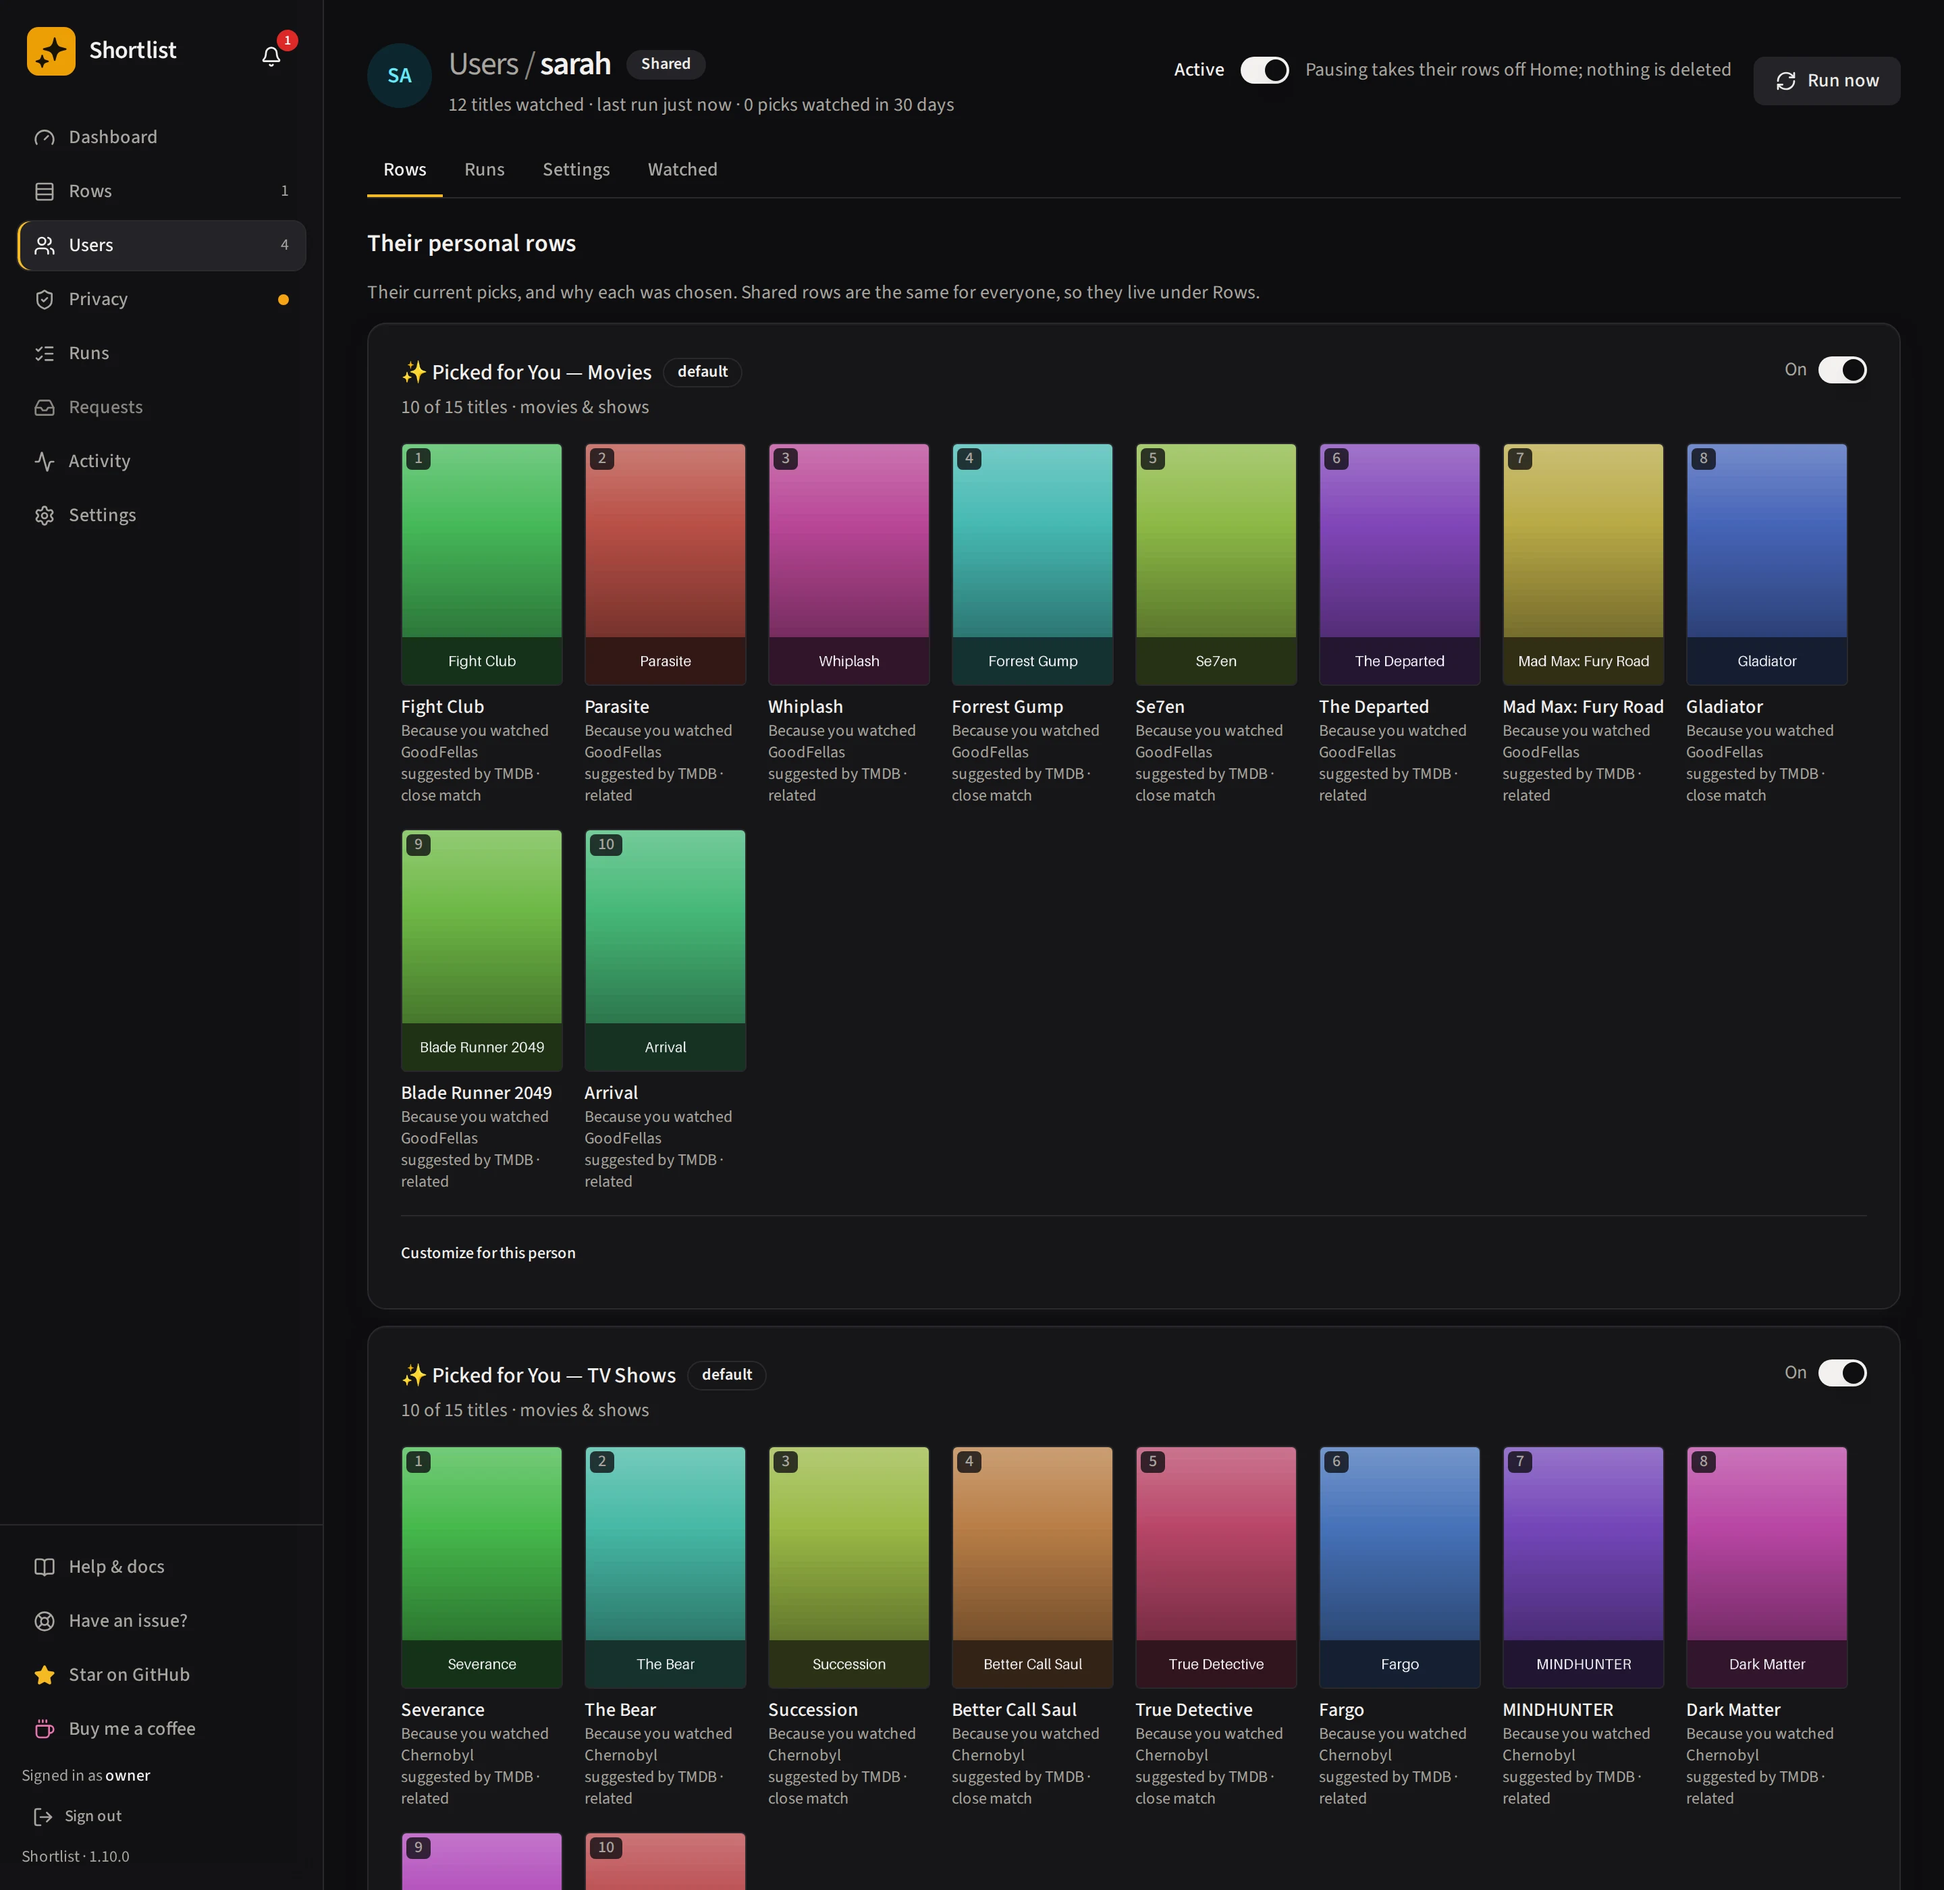
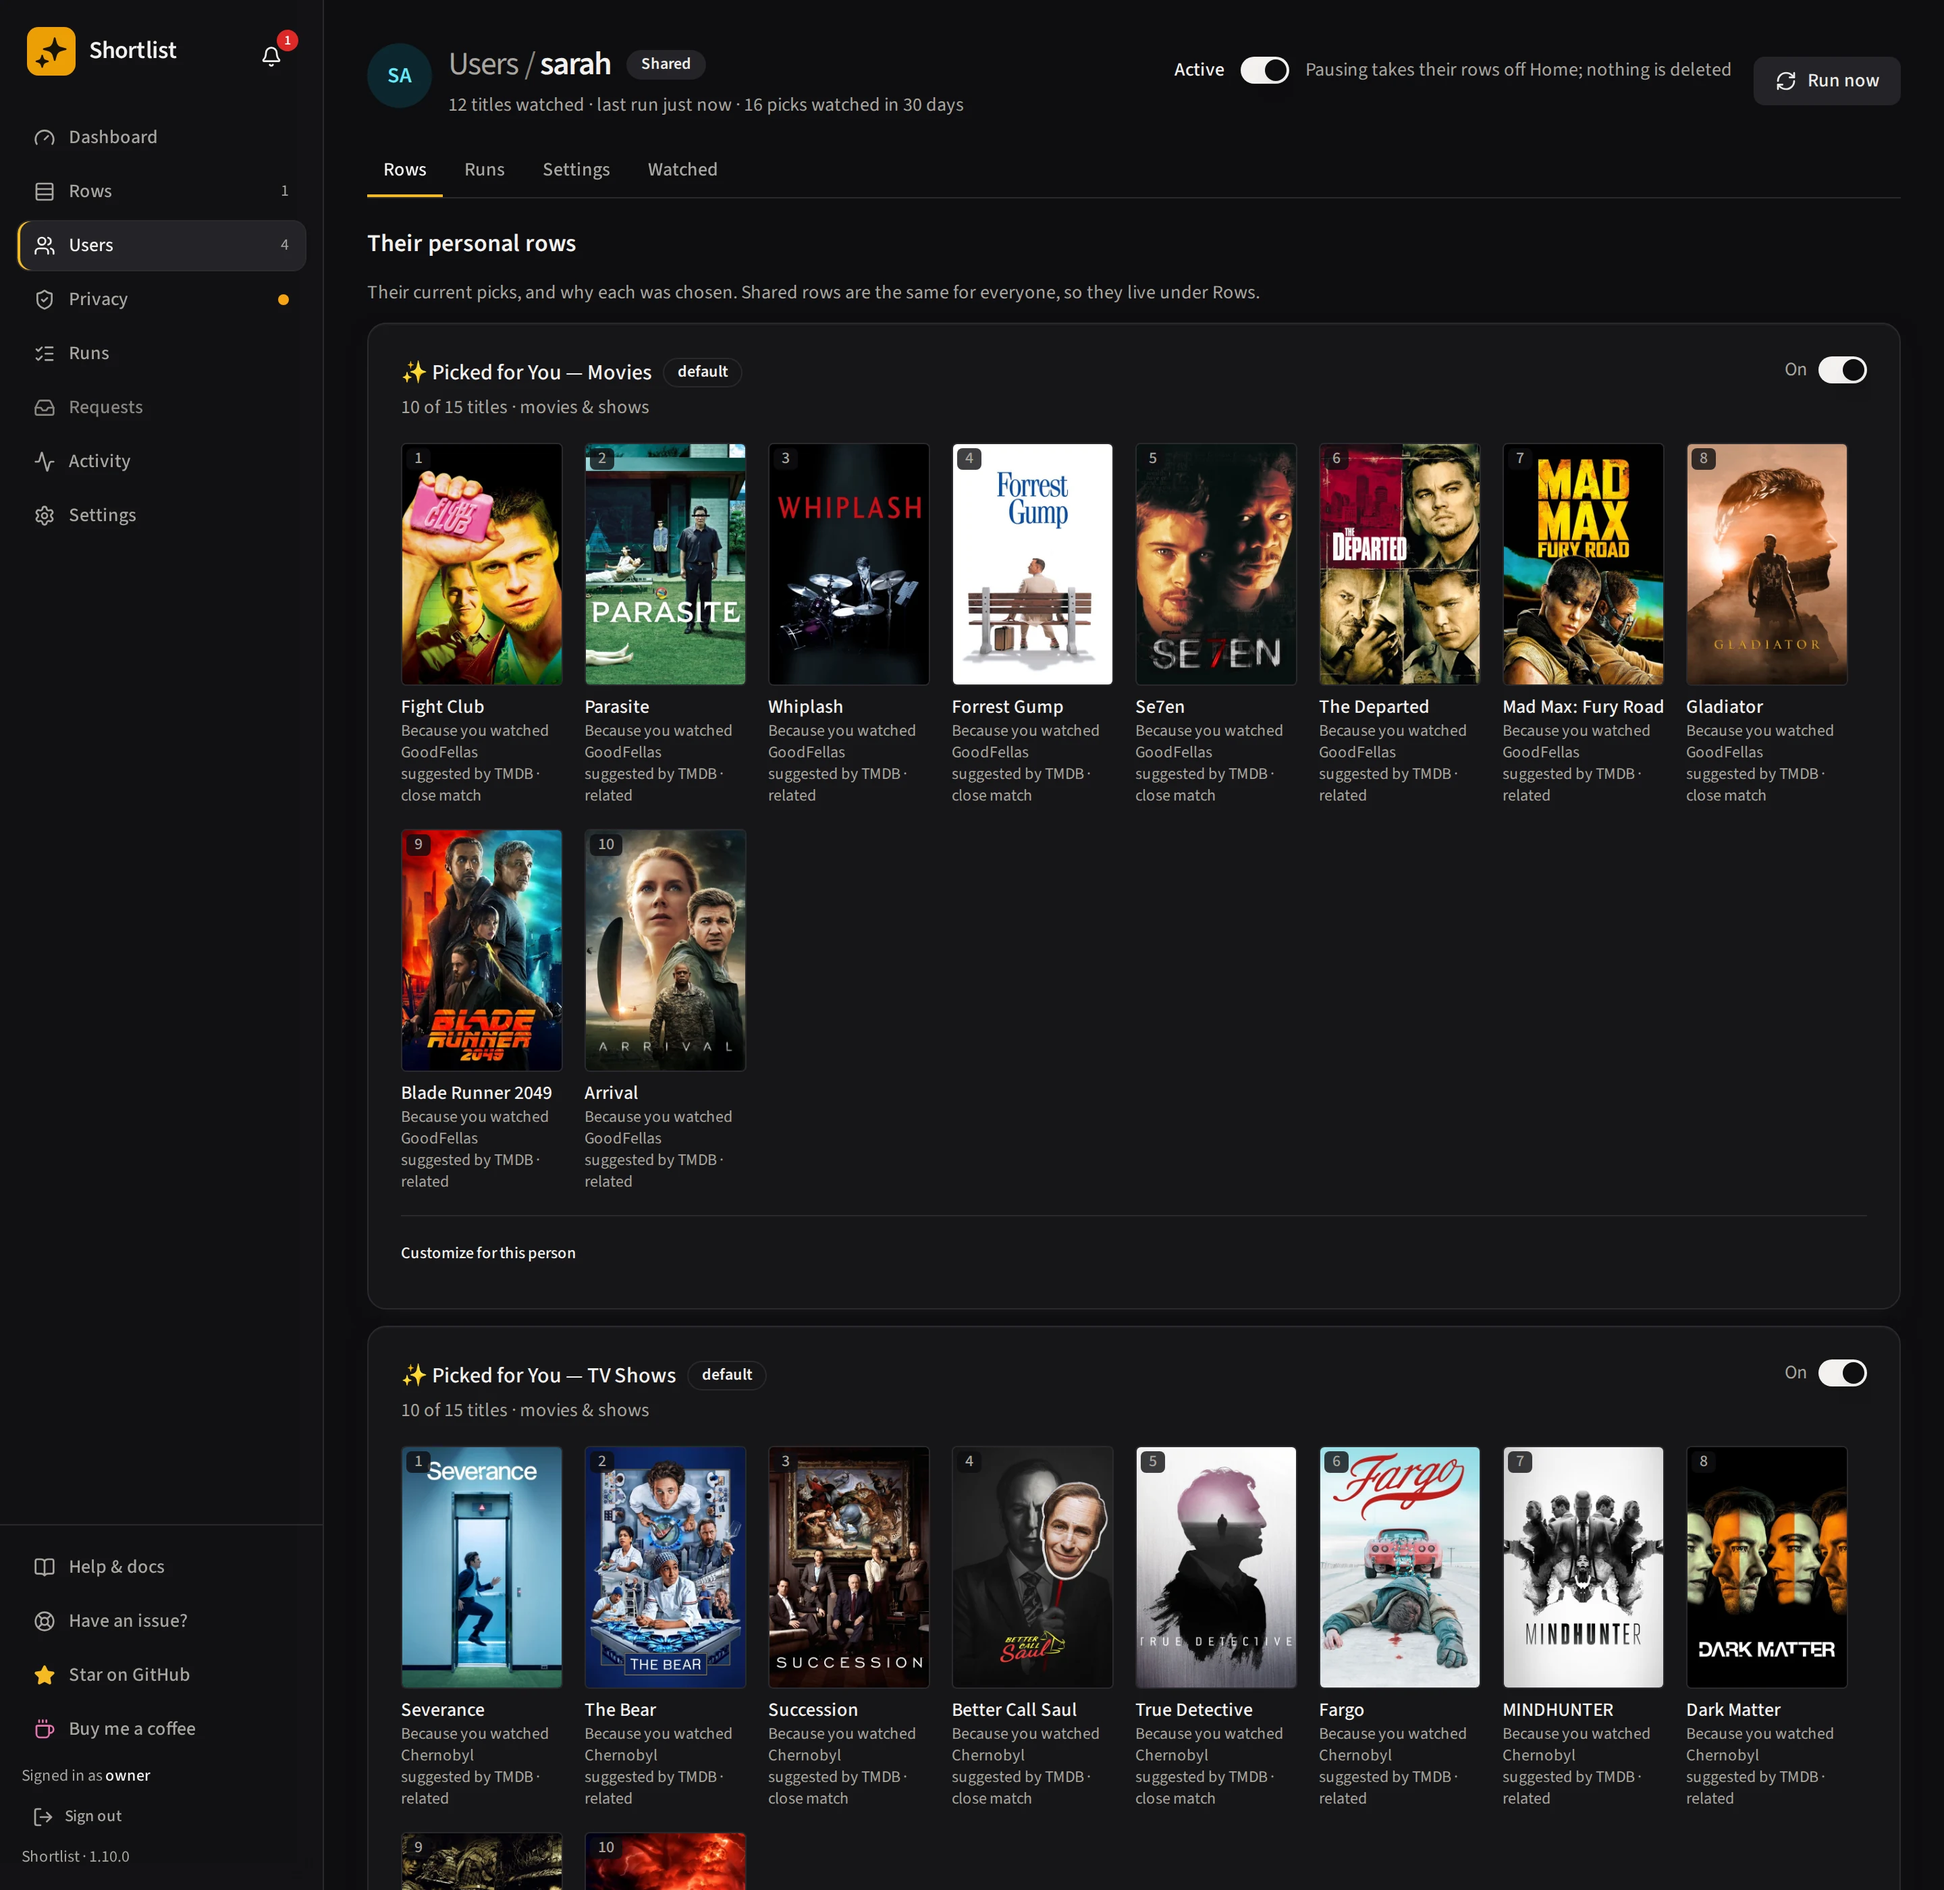
docs: the dashboard screenshot shows a few weeks of watching, not an empty state

diff --git a/tests/e2e/test_screenshots.py b/tests/e2e/test_screenshots.py
@@ -17,6 +17,7 @@ import io
 import os
 import re
 from collections.abc import Iterator
+from datetime import timedelta
 from pathlib import Path
 
 import pytest
@@ -133,6 +134,54 @@ def _capture(page: Page, path: str, *names: str, wait: str | None = None) -> Non
         _shot(page, name)
 
 
+def _seed_history(app: ShortlistApp) -> None:
+    """Give the install a few weeks of watching, so the dashboard shows what an owner sees later.
+
+    `build_real_rows` leaves one night's picks that nobody has watched, so the dashboard's headline
+    section read "Nothing watched yet", the watch sync "not started" and the next run "Not scheduled".
+    This stamps the run's own picks as watched over the last ~30 days (some finished), backdates when
+    they were delivered so "time to watch" has something to average, switches the live watch listener
+    on, and gives the row a nightly cron. Written through the ORM, on the rows a run really made.
+    """
+    from sqlalchemy import create_engine
+    from sqlalchemy.orm import Session
+
+    from shortlist.server.db.models import PickRow, utcnow
+    from shortlist.server.services.watch_stream import STREAM_CONNECTED_KEY
+    from shortlist.server.settings_store import SettingsStore
+
+    now = utcnow()
+    users = _users_by_name(app)
+    engine = create_engine(f"sqlite:///{app.config_dir / 'shortlist.db'}")
+    try:
+        with Session(engine) as session:
+            # (share of a person's picks watched, share of those finished): sarah and mike are the
+            # regulars, jess dips in now and then, the kid account watches little.
+            habits = {"sarah": (0.8, 0.6), "mike": (0.7, 0.5), "jess": (0.5, 0.4), "kid": (0.35, 0.5)}
+            for name, (watched_share, finished_share) in habits.items():
+                picks = session.query(PickRow).filter(PickRow.user_id == users[name]["id"]).order_by(PickRow.rank).all()
+                watched = picks[: max(1, round(len(picks) * watched_share))]
+                for i, pick in enumerate(watched):
+                    # Spread across the last 30 days; delivery precedes the watch by 1-9 days.
+                    watched_at = now - timedelta(days=1 + (i * 29) // max(1, len(watched)), hours=(i * 7) % 11)
+                    pick.created_at = watched_at - timedelta(days=1 + (i * 5) % 9)
+                    pick.watched_at = watched_at
+                    if i < round(len(watched) * finished_share):
+                        pick.finished_at = watched_at
+                        pick.max_percent = 100
+                    else:
+                        pick.max_percent = 35 + (i * 13) % 50
+            store = SettingsStore(session)
+            store.set(STREAM_CONNECTED_KEY, (now - timedelta(days=12)).isoformat())
+            store.set("report.watch_synced_at", (now - timedelta(hours=6)).isoformat())
+            session.commit()
+    finally:
+        engine.dispose()
+    row = next(c for c in app.api("GET", "/api/collections").json() if c["slug"] == "picked")
+    patched = app.api("PATCH", f"/api/collections/{row['id']}", json={"name": row["name"], "schedule": "30 2 * * *"})
+    assert patched.status_code == 200, patched.text
+
+
 #: Titles for the Requests inbox. Real films and a real show, none of them in the fake library — the
 #: inbox is titles the library does NOT have. No poster path: the inbox would fetch TMDB's image host,
 #: and no capture may touch the network, so each draws its placeholder tile.
@@ -239,6 +288,7 @@ def test_capture_app_screenshots(shot_page: Page, app: ShortlistApp) -> None:
     sarah = _users_by_name(app)["sarah"]["id"]
     run_id = app.api("GET", "/api/runs").json()[0]["id"]
     default_row = next(c for c in app.api("GET", "/api/collections").json() if c["slug"] == "picked")
+    _seed_history(app)
 
     # The fake server carries a managed account with a parental preset ("kid"), which Plex will not
     # filter — so this run finishes "OK with warnings", the state the run and privacy screens exist
